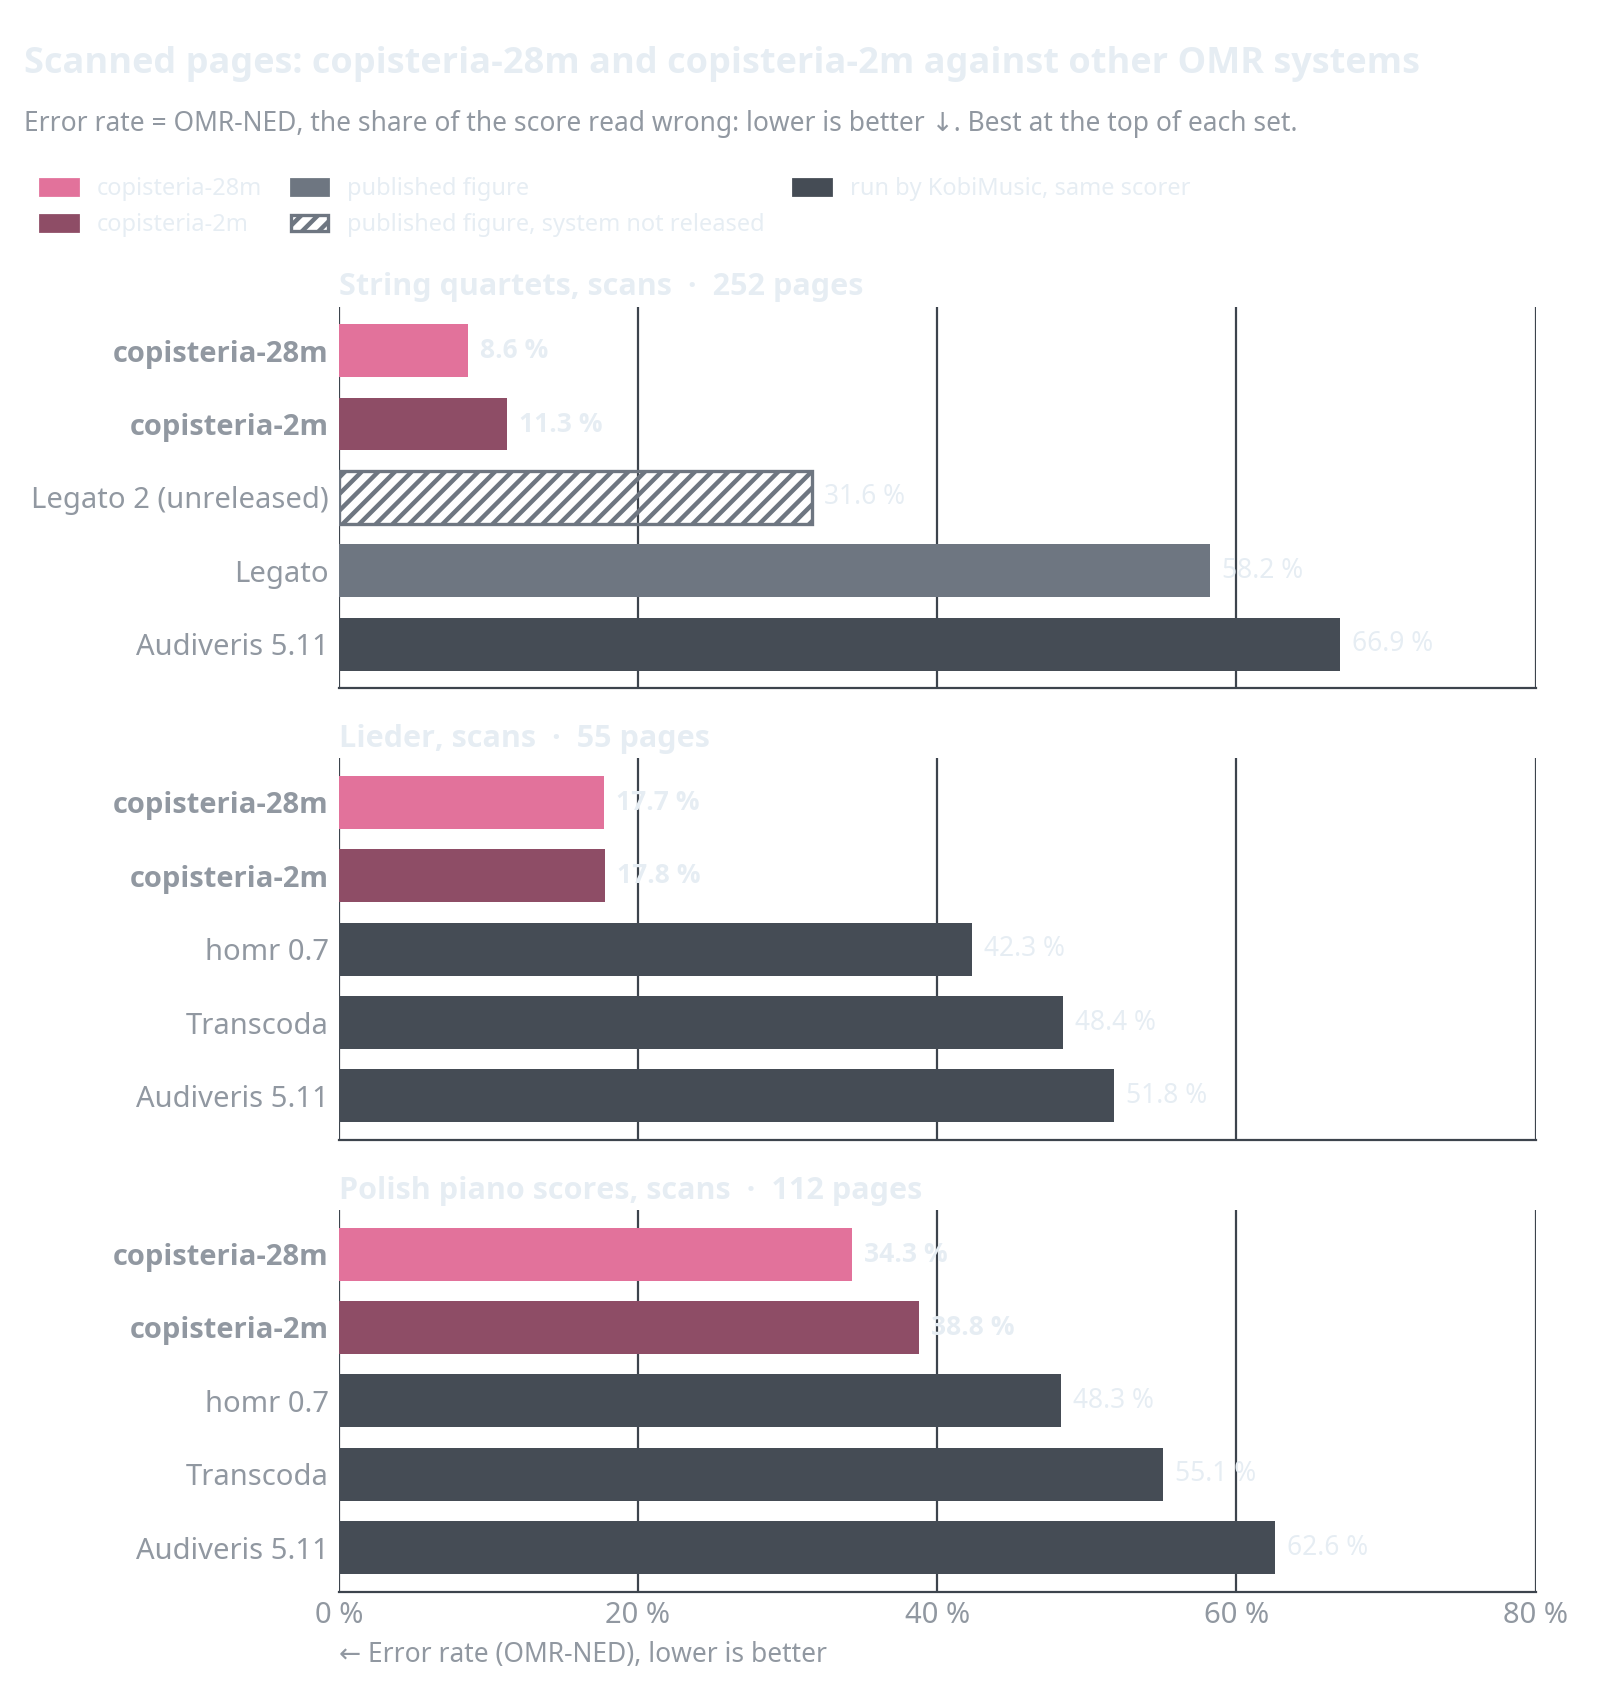
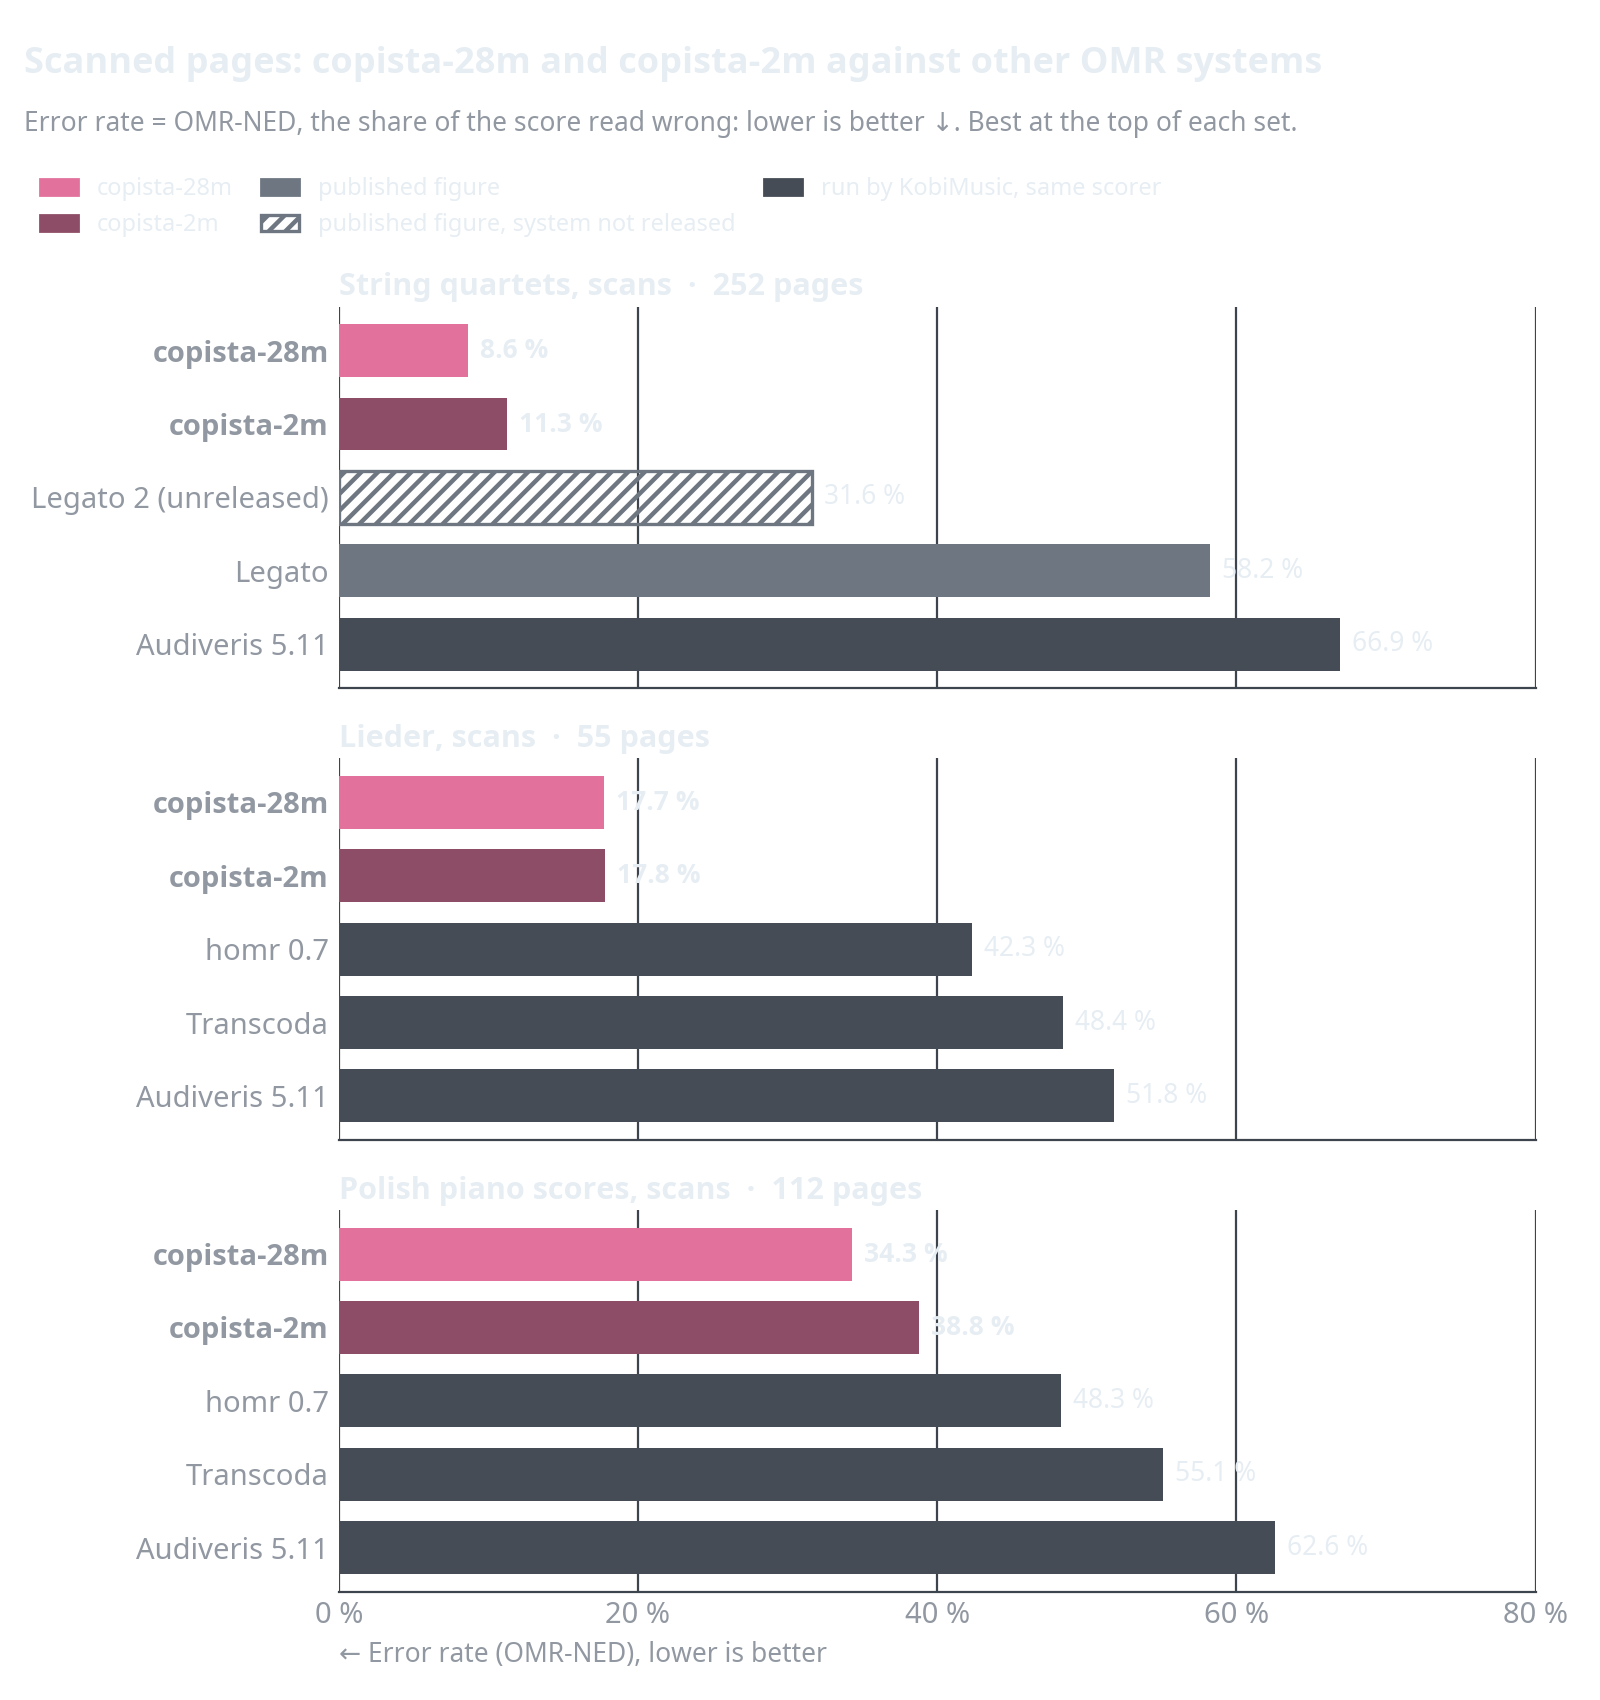
Sizes keep their copista names: copista-28m and copista-2m
copisteria is the evidence model and the reader around it; the symbols come from a copista model's detector, and
the two sizes are named after it: copista-28m (the default) and copista-2m. README, design document, charts, help
texts.

diff --git a/docs/images/make_charts.py b/docs/images/make_charts.py
@@ -3,7 +3,7 @@
     python docs/images/make_charts.py
 
 Every system against every other, per set, as the error rate OMR-NED (musicdiff, pooled over the set's pages; lower
-is better). copisteria-28m and copisteria-2m are this code's run with its two detectors (28.7M and 1.94M parameters). The
+is better). copista-28m and copista-2m are this code's run with its two detectors (28.7M and 1.94M parameters). The
 Lieder scans are 55 pages: the dataset's 64 less the 9 whose ground truth lacks the vocal staff (Legato and Legato 2
 publish 64-page figures only, so they are not in that panel). Legato and Legato 2 are published figures (Legato 2 is not released: its bars are hatched); homr 0.7,
 Audiveris 5.11 and Transcoda were run by KobiMusic with the same scorer.
@@ -27,15 +27,15 @@ SETS = [  # key, name, pages
 
 # system -> (kind, OMR-NED per set in SETS order; None = no figure)
 SYSTEMS = {
-    "copisteria-28m": ("evidence", [8.63, 5.86, 17.72, 14.75, 34.31]),
-    "copisteria-2m": ("small", [11.27, 8.92, 17.81, 16.12, 38.76]),
+    "copista-28m": ("evidence", [8.63, 5.86, 17.72, 14.75, 34.31]),
+    "copista-2m": ("small", [11.27, 8.92, 17.81, 16.12, 38.76]),
     "Legato 2 (unreleased)": ("unreleased", [31.6, 17.1, None, 27.6, None]),
     "Legato": ("published", [58.2, 32.9, None, 39.5, None]),
     "homr 0.7": ("run", [None, None, 42.3, 38.0, 48.3]),
     "Audiveris 5.11": ("run", [66.9, 33.2, 51.8, 28.8, 62.6]),
     "Transcoda": ("run", [None, None, 48.4, 42.0, 55.1]),
 }
-LEGEND = [("evidence", "copisteria-28m"), ("small", "copisteria-2m"), ("published", "published figure"),
+LEGEND = [("evidence", "copista-28m"), ("small", "copista-2m"), ("published", "published figure"),
           ("unreleased", "published figure, system not released"), ("run", "run by KobiMusic, same scorer")]
 
 THEMES = {
@@ -69,12 +69,12 @@ def panels(theme, keys, title, out):
         for y, (system, ned, kind) in enumerate(bars):
             ax.barh(y, ned, 0.72, **bar_style(t, kind))
             ax.text(ned + 0.8, y, f"{ned:.1f} %", va="center", fontsize=9.5, color=t["text"],
-                    fontweight="bold" if system.startswith("copisteria") else "normal")
+                    fontweight="bold" if system.startswith("copista") else "normal")
         ax.set_ylim(len(bars) - 0.4, -0.6)  # lowest error on top
         ax.set_yticks(range(len(bars)))
         ax.set_yticklabels([b[0] for b in bars], color=t["text"])
         for label, b in zip(ax.get_yticklabels(), bars):
-            if b[0].startswith("copisteria"):
+            if b[0].startswith("copista"):
                 label.set_fontweight("bold")
         ax.set_title(f"{name}  ·  {pages} pages", loc="left", color=t["text"], fontsize=11, fontweight="bold",
                      pad=4)
@@ -104,7 +104,7 @@ def panels(theme, keys, title, out):
 
 if __name__ == "__main__":
     for theme in THEMES:
-        panels(theme, ["sq_scan", "lieder_scan", "polish"], "Scanned pages: copisteria-28m and copisteria-2m against other OMR systems",
+        panels(theme, ["sq_scan", "lieder_scan", "polish"], "Scanned pages: copista-28m and copista-2m against other OMR systems",
                "compare-scans")
-        panels(theme, ["sq_render", "lieder_render"], "Rendered pages: copisteria-28m and copisteria-2m against other OMR systems",
+        panels(theme, ["sq_render", "lieder_render"], "Rendered pages: copista-28m and copista-2m against other OMR systems",
                "compare-renders")

diff --git a/src/copisteria/pipeline.py b/src/copisteria/pipeline.py
@@ -5,7 +5,7 @@
 
 A page's detections are taken from a cached file (``<stem>.dets_<tag>_<imgsz>.json`` beside the page, tag v7 for the
 default detector) when one exists, else the detector runs here at the size the page's staff space asks for, and is
-cached the same way. ``--detector 2m`` (or COPISTERIA_DETECTOR=2m) reads as copisteria-2m, with the 1.94M-parameter detector. Page texts
+cached the same way. ``--detector 2m`` (or COPISTERIA_DETECTOR=2m) reads as copista-2m, with the 1.94M-parameter detector. Page texts
 (``<stem>.texts.json`` beside the page: OCR text boxes, see docs/ARCHITECTURE.md) are used when present: the
 title, the composer, words and multi-measure rest counts.
 """

diff --git a/src/copisteria/paths.py b/src/copisteria/paths.py
@@ -8,8 +8,8 @@ MODELS = REPO / "models"
 EVIDENCE = MODELS / "evidence-2m.pt"                          # the evidence model (kobimusic/copisteria)
 # the v7 symbol detectors (kobimusic/copisteria): size -> (weights, tag of the page caches they write)
 DETECTORS = {
-    "28m": (MODELS / "small" / "v7_obj-recall-30m_best.pt", "v7"),         # copisteria-28m, the default
-    "2m": (MODELS / "small" / "v7_obj-recall_best.pt", "v7small"),         # copisteria-2m
+    "28m": (MODELS / "small" / "v7_obj-recall-30m_best.pt", "v7"),         # copista-28m, the default
+    "2m": (MODELS / "small" / "v7_obj-recall_best.pt", "v7small"),         # copista-2m
 }
 DETECTOR = DETECTORS["28m"][0]
 

diff --git a/src/copisteria/omrned.py b/src/copisteria/omrned.py
@@ -6,7 +6,7 @@ skipped (resumable); a page that fails gets no file (it then scores as read enti
 run.json. The MusicXML is scored against the set's ground truth with musicdiff (see README, Benchmark).
 
     python -m copisteria.omrned <set dir> --name evidence [--model models/evidence-2m.pt] [--jobs 6]
-    python -m copisteria.omrned <set dir> --name copisteria-2m --detector 2m
+    python -m copisteria.omrned <set dir> --name copista-2m --detector 2m
 """
 from __future__ import annotations
 

diff --git a/README.md b/README.md
@@ -16,13 +16,13 @@ that say a key is wrong, the bars that add up to three beats under a 4/4 sign, t
 voice that works as the first. Nobody wrote that evidence down; the model learned it from rendered pages where the
 truth is known.
 
-It comes in two sizes, named after their symbol detector: **copisteria-28m** (a 28.7M-parameter detector, the
-default) and **copisteria-2m** (a 1.94M-parameter detector: about 4M parameters for the whole reader). Both read
-with the same evidence model.
+copisteria is the evidence model and the reader around it; the symbols come from a **copista** model's detector, in
+two sizes: **copista-28m** (a 28.7M-parameter detector, the default) and **copista-2m** (a 1.94M-parameter detector:
+about 4M parameters for the whole reader). Both read with the same evidence model.
 
 <picture>
   <source media="(prefers-color-scheme: dark)" srcset="docs/images/compare-scans-dark.png">
-  <img alt="Error rate on scanned pages, lower is better; Legato 2 is not released. String quartets: copisteria-28m 8.6 %, copisteria-2m 11.3 %, Legato 2 31.6 %, Legato 58.2 %, Audiveris 66.9 %. Lieder, 55 pages: copisteria-28m 17.7 %, copisteria-2m 17.8 %, homr 42.3 %, Transcoda 48.4 %, Audiveris 51.8 %. Polish piano scores: copisteria-28m 34.3 %, copisteria-2m 38.8 %, homr 48.3 %, Transcoda 55.1 %, Audiveris 62.6 %" src="docs/images/compare-scans-light.png" width="800">
+  <img alt="Error rate on scanned pages, lower is better; Legato 2 is not released. String quartets: copista-28m 8.6 %, copista-2m 11.3 %, Legato 2 31.6 %, Legato 58.2 %, Audiveris 66.9 %. Lieder, 55 pages: copista-28m 17.7 %, copista-2m 17.8 %, homr 42.3 %, Transcoda 48.4 %, Audiveris 51.8 %. Polish piano scores: copista-28m 34.3 %, copista-2m 38.8 %, homr 48.3 %, Transcoda 55.1 %, Audiveris 62.6 %" src="docs/images/compare-scans-light.png" width="800">
 </picture>
 
 ## How it reads a page
@@ -67,16 +67,16 @@ card. Put them where the pipeline looks:
 
 ```
 models/evidence-2m.pt                     # the evidence model (2.03M parameters), both sizes
-models/small/v7_obj-recall-30m_best.pt    # copisteria-28m's detector (28.7M parameters)
-models/small/v7_obj-recall_best.pt        # copisteria-2m's detector (1.94M parameters)
+models/small/v7_obj-recall-30m_best.pt    # copista-28m's detector (28.7M parameters)
+models/small/v7_obj-recall_best.pt        # copista-2m's detector (1.94M parameters)
 ```
 
 With the Hugging Face CLI (`pip install huggingface_hub`, then `hf auth login` with an account that can see the repo):
 
 ```
 hf download kobimusic/copisteria evidence-2m.pt --local-dir models
-hf download kobimusic/copisteria v7_obj-recall-30m_best.pt --local-dir models/small    # copisteria-28m
-hf download kobimusic/copisteria v7_obj-recall_best.pt --local-dir models/small        # copisteria-2m
+hf download kobimusic/copisteria v7_obj-recall-30m_best.pt --local-dir models/small    # copista-28m
+hf download kobimusic/copisteria v7_obj-recall_best.pt --local-dir models/small        # copista-2m
 ```
 
 ## Install
@@ -92,8 +92,8 @@ Install it editable and run it from the repository's root: the code finds `model
 ## Use
 
 ```
-python -m copisteria.pipeline page.png --out out                  # copisteria-28m
-python -m copisteria.pipeline page.png --out out --detector 2m    # copisteria-2m
+python -m copisteria.pipeline page.png --out out                  # copista-28m
+python -m copisteria.pipeline page.png --out out --detector 2m    # copista-2m
 python -m copisteria.pipeline --pdf score.pdf --range 1-12 --out out
 ```
 
@@ -102,8 +102,8 @@ choice and the evidence for it) and `<page>.html`, a viewer: the scan with every
 changed (hover: what the detector said, what the model reads, and the symbols it looked at most), and the MusicXML
 engraved by Verovio. `out/index.html` lists the pages read.
 
-The detections are cached beside each page (`<page>.dets_v7_<size>.json` for copisteria-28m,
-`<page>.dets_v7small_<size>.json` for copisteria-2m). Page text (title, composer, part names, tempo and expression
+The detections are cached beside each page (`<page>.dets_v7_<size>.json` for copista-28m,
+`<page>.dets_v7small_<size>.json` for copista-2m). Page text (title, composer, part names, tempo and expression
 words, the counts over multi-measure rests) is read from `<page>.texts.json` beside the page when it is there: OCR
 text boxes with their role on the page, `[{"text": ..., "xyxy": [x0, y0, x1, y1], "role": ...}]`
 (docs/ARCHITECTURE.md lists the roles). Without it the music is read the same and the text is left out.
@@ -139,13 +139,13 @@ The OMR-NED benchmark: each page's MusicXML is compared with the dataset's own b
 over a set and divided by the symbols of both scores. The result is the **error rate**, the share of the score read
 wrong: a page read entirely wrong scores 100 %.
 
-> **Every figure in the table and the charts is an error rate: lower is better ↓.** copisteria-28m is lowest on
-> every set; both sizes are ahead of every other system on every set.
+> **Every figure in the table and the charts is an error rate: lower is better ↓.** copista-28m is lowest on every
+> set; both sizes are ahead of every other system on every set.
 
 | System | Figures | Quartets, scans ↓ | Quartets, renders ↓ | Lieder, scans ↓ | Lieder, renders ↓ | Polish piano, scans ↓ |
 |---|---|---|---|---|---|---|
-| **copisteria-28m** | KobiMusic | **8.6 %** | **5.9 %** | **17.7 %** | **14.8 %** | **34.3 %** |
-| **copisteria-2m** | KobiMusic | 11.3 % | 8.9 % | 17.8 % | 16.1 % | 38.8 % |
+| **copista-28m** | KobiMusic | **8.6 %** | **5.9 %** | **17.7 %** | **14.8 %** | **34.3 %** |
+| **copista-2m** | KobiMusic | 11.3 % | 8.9 % | 17.8 % | 16.1 % | 38.8 % |
 | Legato 2 (unreleased) | published | 31.6 % | 17.1 % | n/a ⁴ | 27.6 % | n/a |
 | Legato | published | 58.2 % | 32.9 % | n/a ⁴ | 39.5 % | n/a ¹ |
 | homr 0.7 | run by KobiMusic | piano only | piano only | 42.3 % | 38.0 % | 48.3 % |
@@ -154,10 +154,10 @@ wrong: a page read entirely wrong scores 100 %.
 
 Pages per set: quartets 252 scans and 252 renders, Lieder 55 scans and 64 renders, Polish 112. The Lieder scans are
 the dataset's 64 less 9 broken pages (0032-0035 and 0048-0052): their ground truth lacks the vocal staff the page
-shows, so every system loses most of them. copisteria-28m is the 28.7M-parameter detector with the 2.03M-parameter
-evidence model (30.7M in all), copisteria-2m the 1.94M-parameter detector with the same evidence model (4.0M in
-all); the evidence model was trained on copisteria-28m's detector. "Published" figures are the ones in the Legato
-papers ([Legato](https://arxiv.org/abs/2506.19065), [Legato 2](https://arxiv.org/abs/2607.05769)). **Legato 2 is not
+shows, so every system loses most of them. copista-28m is the 28.7M-parameter detector with the 2.03M-parameter
+evidence model (30.7M in all), copista-2m the 1.94M-parameter detector with the same evidence model (4.0M in all);
+the evidence model was trained on copista-28m's detector. "Published" figures are the ones in the Legato papers
+([Legato](https://arxiv.org/abs/2506.19065), [Legato 2](https://arxiv.org/abs/2607.05769)). **Legato 2 is not
 released**: its figures are from the paper and nobody can run it (hatched bars in the charts). The systems marked
 "run by KobiMusic" were run on the same pages with the same scorer. A page a system gives no output for counts as
 read entirely wrong, as on the IMSLP piano leaderboard.
@@ -173,14 +173,14 @@ read entirely wrong, as on the IMSLP piano leaderboard.
 
 <picture>
   <source media="(prefers-color-scheme: dark)" srcset="docs/images/compare-renders-dark.png">
-  <img alt="Error rate on rendered pages, lower is better; Legato 2 is not released. String quartets: copisteria-28m 5.9 %, copisteria-2m 8.9 %, Legato 2 17.1 %, Legato 32.9 %, Audiveris 33.2 %. Lieder: copisteria-28m 14.8 %, copisteria-2m 16.1 %, Legato 2 27.6 %, Audiveris 28.8 %, homr 38.0 %, Legato 39.5 %, Transcoda 42.0 %" src="docs/images/compare-renders-light.png" width="800">
+  <img alt="Error rate on rendered pages, lower is better; Legato 2 is not released. String quartets: copista-28m 5.9 %, copista-2m 8.9 %, Legato 2 17.1 %, Legato 32.9 %, Audiveris 33.2 %. Lieder: copista-28m 14.8 %, copista-2m 16.1 %, Legato 2 27.6 %, Audiveris 28.8 %, homr 38.0 %, Legato 39.5 %, Transcoda 42.0 %" src="docs/images/compare-renders-light.png" width="800">
 </picture>
 
-**copisteria alone.** Over the 735 pages of the five sets copisteria-28m reads 88.3 % of the score right (error rate
-11.7 %), copisteria-2m 85.5 % (14.5 %). A known weakness: triplets a page does not mark (marked once, often pages
+**copisteria alone.** Over the 735 pages of the five sets copista-28m reads 88.3 % of the score right (error rate
+11.7 %), copista-2m 85.5 % (14.5 %). A known weakness: triplets a page does not mark (marked once, often pages
 earlier), which it can read as plain notes.
 
-The figures are this code's run with `evidence-2m.pt` and the default settings (`--detector 2m` for copisteria-2m),
+The figures are this code's run with `evidence-2m.pt` and the default settings (`--detector 2m` for copista-2m),
 with page text from KobiMusic's OCR (Tesseract) in `<page>.texts.json`; `python -m copisteria.omrned <set
 dir>` reads a set. `docs/images/make_charts.py` draws the charts.
 

diff --git a/docs/ARCHITECTURE.md b/docs/ARCHITECTURE.md
@@ -22,10 +22,10 @@ finds none, from a first pass's measure boxes, which are four staff spaces tall)
 position, stem direction, dots, grace, voice slot. Detections at confidence 0.05 and up are kept and cached beside
 the page.
 
-The two sizes are named after their detector: copisteria-28m reads with that one (28.7M parameters), copisteria-2m
+The two sizes are named after their detector: copista-28m reads with that one (28.7M parameters), copista-2m
 (`--detector 2m`) with the small v7 detector (architecture `obj-recall`, 1.94M parameters, the same classes and
 attributes), so the whole reader is about 4M parameters. The evidence model is the same in both; it was trained on
-copisteria-28m's detector, not the small one.
+copista-28m's detector, not the small one.
 
 ## 2. Front end (`front.py`, `links.py`)
 

diff --git a/models/README.md b/models/README.md
@@ -9,7 +9,7 @@ The weights are not in the repository. Put them here:
 | File | Where it comes from |
 |---|---|
 | `evidence-2m.pt` | The evidence model (2.03M parameters), both sizes |
-| `small/v7_obj-recall-30m_best.pt` | copisteria-28m's symbol detector (28.7M parameters), the default |
-| `small/v7_obj-recall_best.pt` | copisteria-2m's symbol detector (1.94M parameters, the same 270 classes), `--detector 2m` |
+| `small/v7_obj-recall-30m_best.pt` | copista-28m's symbol detector (28.7M parameters), the default |
+| `small/v7_obj-recall_best.pt` | copista-2m's symbol detector (1.94M parameters, the same 270 classes), `--detector 2m` |
 
 All three are in the Hugging Face repo `kobimusic/copisteria`.
